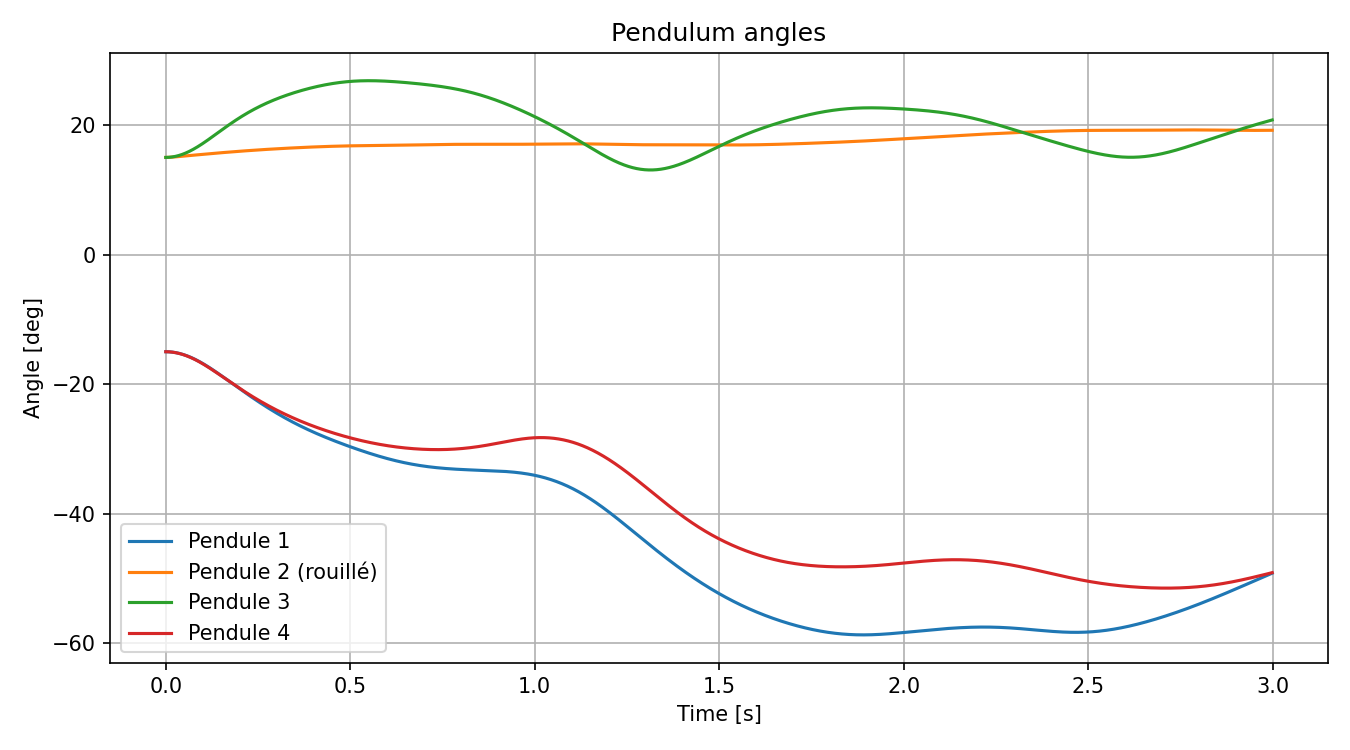
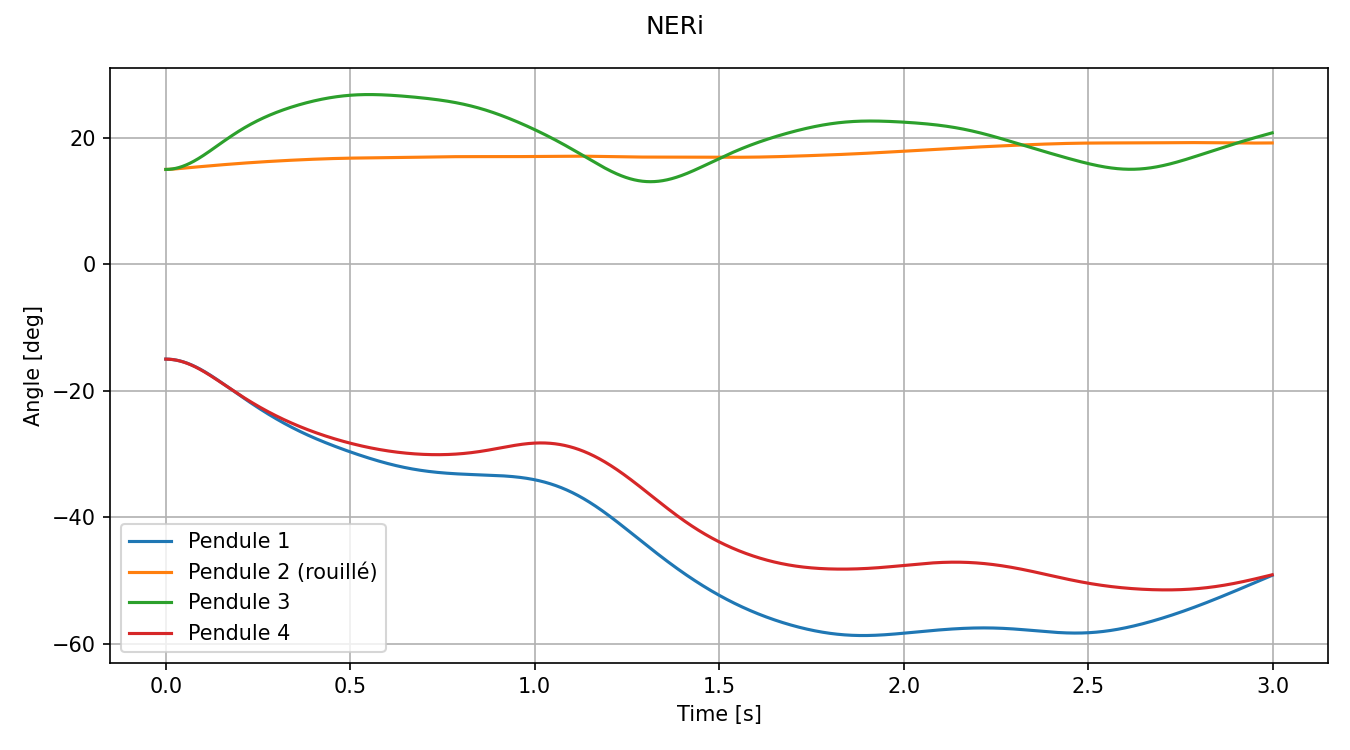
changement mineur pour plot

diff --git a/MBS_carousell_final/workR/main_neri.py b/MBS_carousell_final/workR/main_neri.py
@@ -1,9 +1,3 @@
-"""
-NERi simulation du Merry-go-round — style Thibaut.
-Utilise neri.forward_kinematics + neri.backward_dynamics (neri.py du même dossier).
-Topologie, forces et conditions initiales identiques à main_nicolas_style.py.
-"""
-
 import os
 import numpy as np
 import MBsysPy as Robotran
@@ -282,6 +276,10 @@ if __name__ == "__main__":
     print(f"\nVitesse finale pôle : {qd1_deg[-1]:.2f} deg/s")
     print(f"Motor t0_reach      : {motor_state['t0']}")
 
+    _comp_dir = os.path.join(_script_dir, '..', 'comparaison_neri_vs_dirdyn')
+    os.makedirs(_comp_dir, exist_ok=True)
+    np.save(os.path.join(_comp_dir, 'neri_results.npy'), np.column_stack((time, qd1_deg)))
+
     q2_t = np.array([driven_kinematics(t)[2][0] for t in time])
     q3_t = np.array([driven_kinematics(t)[3][0] for t in time])
 
@@ -297,9 +295,9 @@ if __name__ == "__main__":
     ax.plot(time, qd1_deg, label='Main pole angular velocity')
     ax.set_xlabel('Time [s]')
     ax.set_ylabel('Angular velocity [deg/s]')
-    ax.set_title('Angular velocity around the vertical axis of the main pole')
     ax.grid(True)
     ax.legend()
+    fig.suptitle('NERi')
     fig.tight_layout()
     save(fig, "01_pole_velocity")
 
@@ -311,9 +309,9 @@ if __name__ == "__main__":
     ax.plot(time, np.rad2deg(jq(11)), label='Pendule 4')
     ax.set_xlabel('Time [s]')
     ax.set_ylabel('Angle [deg]')
-    ax.set_title('Pendulum angles')
     ax.grid(True)
     ax.legend()
+    fig.suptitle('NERi')
     fig.tight_layout()
     save(fig, "02_pendulum_angles")
 
@@ -325,9 +323,9 @@ if __name__ == "__main__":
     ax.plot(time, np.rad2deg(jqd(11)), label='Pendule 4')
     ax.set_xlabel('Time [s]')
     ax.set_ylabel('Angular velocity [deg/s]')
-    ax.set_title('Pendulum angular velocities')
     ax.grid(True)
     ax.legend()
+    fig.suptitle('NERi')
     fig.tight_layout()
     save(fig, "03_pendulum_velocities")
 
@@ -337,9 +335,9 @@ if __name__ == "__main__":
     ax.plot(time, np.rad2deg(q3_t), label='q3 — R2_Pole')
     ax.set_xlabel('Time [s]')
     ax.set_ylabel('Angle [deg]')
-    ax.set_title('Driven joint angles (pole tilt)')
     ax.grid(True)
     ax.legend()
+    fig.suptitle('NERi')
     fig.tight_layout()
     save(fig, "04_driven_joints")
 

diff --git a/MBS_carousell_final/comparaison_neri_vs_dirdyn/compare.py b/MBS_carousell_final/comparaison_neri_vs_dirdyn/compare.py
@@ -1,0 +1,43 @@
+import os
+import numpy as np
+import matplotlib.pyplot as plt
+from scipy.interpolate import interp1d
+
+_script_dir = os.path.dirname(os.path.abspath(__file__))
+
+neri_data   = np.load(os.path.join(_script_dir, 'neri_results.npy'))
+dirdyn_data = np.load(os.path.join(_script_dir, 'dirdyn_results.npy'))
+
+t_neri,   qd_neri   = neri_data[:, 0],   neri_data[:, 1]
+t_dirdyn, qd_dirdyn = dirdyn_data[:, 0], dirdyn_data[:, 1]
+
+# Interpolation dirdyn sur la grille NERi
+qd_dirdyn_i = interp1d(t_dirdyn, qd_dirdyn, bounds_error=False, fill_value='extrapolate')(t_neri)
+diff = qd_neri - qd_dirdyn_i
+
+# ── Plot 1 : superposition ────────────────────────────────────────────
+fig, ax = plt.subplots(figsize=(9, 5))
+ax.plot(t_neri,   qd_neri,   label='NERi',     linewidth=1.5)
+ax.plot(t_dirdyn, qd_dirdyn, label='Robotran', linewidth=1.5, linestyle='--')
+ax.set_xlabel('Time [s]')
+ax.set_ylabel('Angular velocity [deg/s]')
+ax.grid(True)
+ax.legend()
+fig.suptitle('Main pole angular velocity — NERi vs Robotran')
+fig.tight_layout()
+fig.savefig(os.path.join(_script_dir, '01_overlay.png'), dpi=150)
+plt.close(fig)
+
+# ── Plot 2 : différence NERi − Robotran ──────────────────────────────
+fig, ax = plt.subplots(figsize=(9, 5))
+ax.plot(t_neri, diff, color='tab:red', linewidth=1.2)
+ax.set_xlabel('Time [s]')
+ax.set_ylabel('Δ Angular velocity [deg/s]')
+ax.grid(True)
+fig.suptitle('Difference NERi − Robotran (main pole velocity)')
+fig.tight_layout()
+fig.savefig(os.path.join(_script_dir, '02_difference.png'), dpi=150)
+plt.close(fig)
+
+print(f"Max |diff| = {np.max(np.abs(diff)):.4f} deg/s")
+plt.show()

diff --git a/MBS_carousell_final/Carousell_dirdyn/workR/main.py b/MBS_carousell_final/Carousell_dirdyn/workR/main.py
@@ -81,6 +81,11 @@ time = results.qd[:, 0]
 _plot_dir = os.path.join(script_dir, "dirdyn_plot")
 os.makedirs(_plot_dir, exist_ok=True)
 
+_comp_dir = os.path.join(script_dir, '..', '..', 'comparaison_neri_vs_dirdyn')
+os.makedirs(_comp_dir, exist_ok=True)
+np.save(os.path.join(_comp_dir, 'dirdyn_results.npy'),
+        np.column_stack((time, np.rad2deg(results.qd[:, joint_pole]))))
+
 def save(fig, name):
     fig.savefig(os.path.join(_plot_dir, name + ".png"), dpi=150)
     plt.close(fig)
@@ -92,7 +97,7 @@ axis.grid(True)
 axis.set_xlim(t0, tf)
 axis.set_xlabel('Time (s)')
 axis.set_ylabel('Angular velocity [deg/s]')
-axis.set_title('Angular velocity around the vertical axis of the main pole')
+fig.suptitle('Robotran')
 axis.legend()
 fig.tight_layout()
 save(fig, "01_pole_velocity")
@@ -107,7 +112,7 @@ axis.grid(True)
 axis.set_xlim(t0, tf)
 axis.set_xlabel('Time (s)')
 axis.set_ylabel('Angle [deg]')
-axis.set_title('Pendulum angles')
+fig.suptitle('Robotran')
 axis.legend()
 fig.tight_layout()
 save(fig, "02_pendulum_angles")
@@ -122,7 +127,7 @@ axis.grid(True)
 axis.set_xlim(t0, tf)
 axis.set_xlabel('Time (s)')
 axis.set_ylabel('Angular velocity [deg/s]')
-axis.set_title('Pendulum angular velocities')
+fig.suptitle('Robotran')
 axis.legend()
 fig.tight_layout()
 save(fig, "03_pendulum_velocities")
@@ -135,7 +140,7 @@ axis.grid(True)
 axis.set_xlim(t0, tf)
 axis.set_xlabel('Time (s)')
 axis.set_ylabel('Angle [deg]')
-axis.set_title('Driven joint angles (pole tilt)')
+fig.suptitle('Robotran')
 axis.legend()
 fig.tight_layout()
 save(fig, "04_driven_joints")
